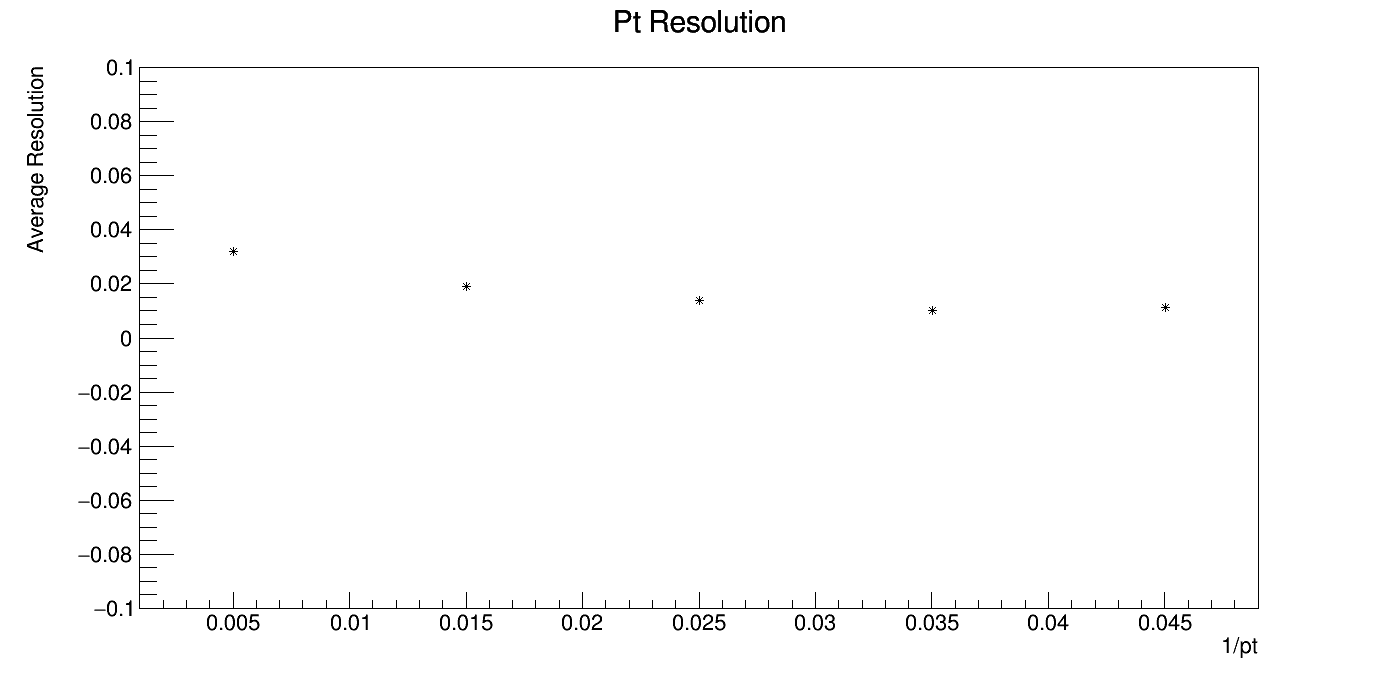
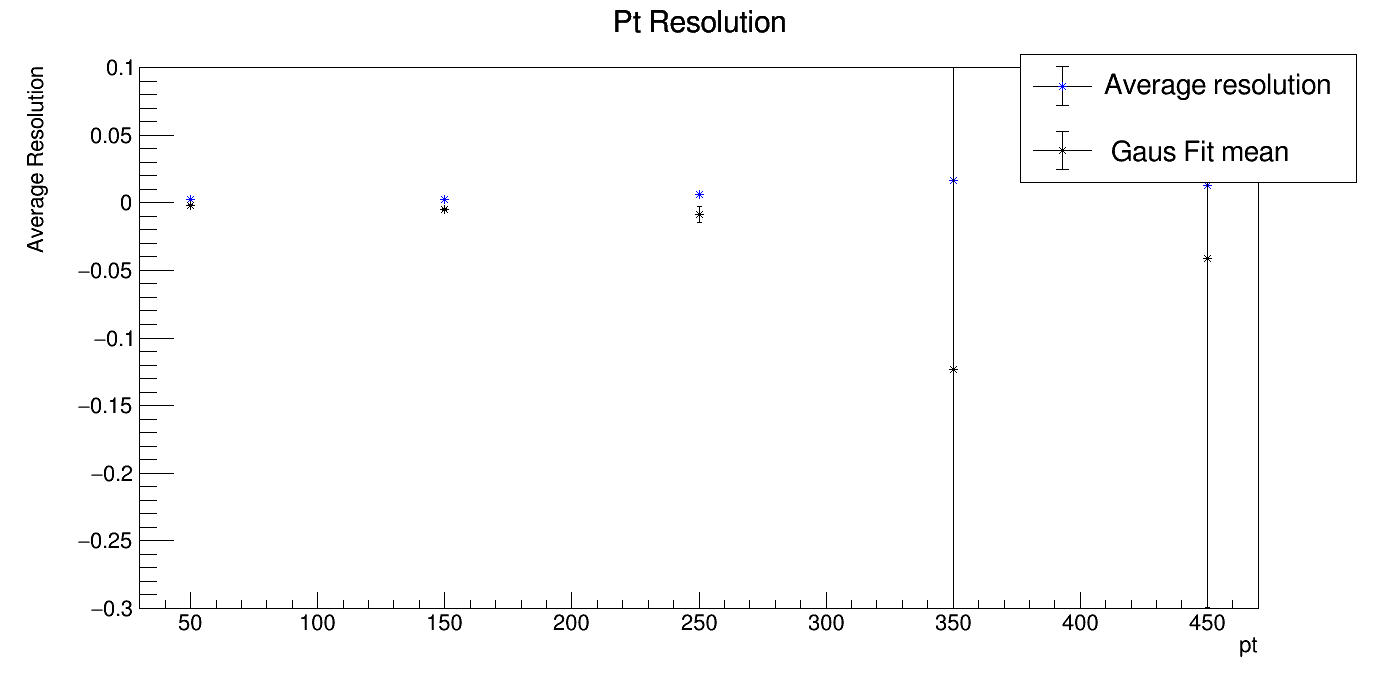
update

diff --git a/dgl_ptmuond.py b/dgl_ptmuond.py
@@ -22,9 +22,21 @@ can2  = ROOT.TCanvas("can2", "histogramss", 1400,700)
 can3  = ROOT.TCanvas("can3", "Average Resolution", 1400,700)
 can4 = ROOT.TCanvas("can4", "Resolution", 1400,700)
 can5 = ROOT.TCanvas("can5", "Resolution hist", 1400,700)
+can6= ROOT.TCanvas("can6", "Pt hist", 1400,700)
+can7= ROOT.TCanvas("can7", "Pt hist", 1400,700)
+can8= ROOT.TCanvas("can8", "Pt hist", 1400,700)
+can9= ROOT.TCanvas("can9", "Pt hist", 1400,700)
+can10= ROOT.TCanvas("can10", "Pt hist", 1400,700)
+can11= ROOT.TCanvas("can11", "Sigma", 1400,700)
 h1 = ROOT.TH1D("h1", "Down dGl", 500, 0.0, 500.0)
 h2 = ROOT.TH1D("h2", "Up dGl", 500, 0.0, 500.0)
-h3= ROOT.TH1D("h2", "Resolution hist", 200, -1, 1)
+h3= ROOT.TH1D("h3", "Resolution hist", 200, -1, 1)
+h4= ROOT.TH1D("h4", "Res Pt_0-100 hist ", 100, -0.1, 0.1)
+h5= ROOT.TH1D("h5", "Res Pt_100-200 hist ", 100, -0.1, 0.1)
+h6= ROOT.TH1D("h6", "Res Pt_200-300 hist ", 100, -0.1, 0.1)
+h7= ROOT.TH1D("h7", "Res Pt_300-400 hist ", 100, -0.1, 0.1)
+h8= ROOT.TH1D("h8", "Res Pt_400-500 hist ", 100, -0.1, 0.1)
+
 entry_down=0
 entry_up=0
 downdgl_pt=0
@@ -37,9 +49,14 @@ res=0
 xaxis=[]
 ressolution=[]
 den=np.array([0,0,0,0,0])
+empty=np.array([0.0,0.0,0.0,0.0,0.0])
 sum_resolution=np.array([0.0,0.0,0.0,0.0,0.0])
+sigma=np.array([0.0,0.0,0.0,0.0,0.0])
 average_resolution=np.array([0.0,0.0,0.0,0.0,0.0])
-pt_bin=np.array([0.005,0.015,0.025,0.035,0.045])
+average_resolution1=np.array([0.0,0.0,0.0,0.0,0.0])
+res_error=np.array([0.0,0.0,0.0,0.0,0.0])
+sigma_error=np.array([0.0,0.0,0.0,0.0,0.0])
+pt_bin=np.array([50.0,150.0,250.0,350.0,450.0])
 
 for i in range(0,Entries):
     tree.GetEntry(i) 
@@ -78,30 +95,37 @@ for i in range(0,Entries):
             xaxis.append(inv_Uppt)
             ressolution.append(res)
             
-            if 0.0<inv_Uppt<pt_bin[0]+0.005:
+            if 0.0<updgl_pt<pt_bin[0]+50.0:
                 den[0]+=1
-                sum_resolution[0]+=abs(res)
+                sum_resolution[0]+=res
+                h4.Fill(res)
             
-            if (pt_bin[1]-0.005)<inv_Uppt<(pt_bin[1]+0.005):
+            if (pt_bin[1]-50.0)<updgl_pt<(pt_bin[1]+50.0):
                 den[1]+=1
-                sum_resolution[1]+=abs(res)
-            
-            if (pt_bin[2]-0.005)<inv_Uppt<(pt_bin[2]+0.005):
+                sum_resolution[1]+=res
+                h5.Fill(res)
+                
+            if (pt_bin[2]-50.0)<updgl_pt<(pt_bin[2]+50.0):
                 den[2]+=1
-                sum_resolution[2]+=abs(res)
-            if (pt_bin[3]-0.005)<inv_Uppt<(pt_bin[3]+0.005):
+                sum_resolution[2]+=res
+                h6.Fill(res)
+                
+            if (pt_bin[3]-50.0)<updgl_pt<(pt_bin[3]+50.0):
                 den[3]+=1
-                sum_resolution[3]+=abs(res)
+                sum_resolution[3]+=res
+                h7.Fill(res)
             
-            if (pt_bin[4]-0.005)<inv_Uppt<(pt_bin[4]+0.005):
+            if (pt_bin[4]-50.0)<updgl_pt<(pt_bin[4]+50.0):
                 den[4]+=1
-                sum_resolution[4]+=abs(res)
-            
-            
+                sum_resolution[4]+=res
+                h8.Fill(res)
+                
+                
 for s in range(5):
-    average_resolution[s]= abs(sum_resolution[s])/den[s]
+    average_resolution1[s]= abs(sum_resolution[s])/den[s]
     
-print(den, sum_resolution, average_resolution)
+            
+            
 can.cd()
 h1.Draw()
 can.SaveAs("plots/do_ndgl_pt.png")
@@ -109,22 +133,94 @@ can.SaveAs("plots/do_ndgl_pt.png")
 can2.cd()    
 h2.Draw()
 can2.SaveAs("plots/up_dgl_pt.png")
+
 can5.cd()    
 h3.Draw()
 can5.SaveAs("plots/Resolutions_hist.png")
 
+can6.cd()
+fit1= h4.Fit("gaus", "S")
+mean_res1=fit1.Parameter(1)
+sigma1=fit1.Parameter(2)
+res_error[0]=fit1.ParError(1)
+sigma_error[0]=fit1.ParError(2)
+print("1",mean_res1,sigma1)
+average_resolution[0]=mean_res1
+sigma[0]=sigma1
+h4.Draw()
+can6.SaveAs("plots/pt_0-100_hist.png")
+
+can7.cd()
+fit2= h5.Fit("gaus", "S")
+mean_res2=fit2.Parameter(1)
+sigma2=fit2.Parameter(2)
+res_error[1]=fit2.ParError(1)
+sigma_error[1]=fit2.ParError(2)
+print("2",mean_res2, sigma2)
+average_resolution[1]=mean_res2
+sigma[1]=sigma2
+h5.Draw()
+can7.SaveAs("plots/pt_100-200_hist.png")
+
+can8.cd()
+fit3= h6.Fit("gaus", "S")
+mean_res3=fit3.Parameter(1)
+sigma3=fit3.Parameter(2)
+res_error[2]=fit3.ParError(1)
+sigma_error[2]=fit3.ParError(2)
+print("3",mean_res3, sigma3)
+average_resolution[2]=mean_res3
+sigma[2]=sigma3
+h6.Draw()
+can8.SaveAs("plots/pt_200-300_hist.png")
+
+can9.cd()
+fit4= h7.Fit("gaus", "S")
+mean_res4=fit4.Parameter(1)
+sigma4=fit4.Parameter(2)
+res_error[3]=fit4.ParError(1)
+sigma_error[3]=fit4.ParError(2)
+print("4",mean_res4, sigma4)
+average_resolution[3]=mean_res4
+sigma[3]=sigma4
+h7.Draw()
+can9.SaveAs("plots/pt_300-400_hist.png")
+
+can10.cd()
+fit5= h8.Fit("gaus", "S")
+mean_res5=fit5.Parameter(1)
+sigma5=fit5.Parameter(2)
+res_error[4]=fit5.ParError(1)
+sigma_error[4]=fit5.ParError(2)
+print("5",mean_res5, sigma5,res_error,sigma_error)
+average_resolution[4]=mean_res5
+sigma[4]=sigma5
+h8.Draw()
+can10.SaveAs("plots/pt_400-500_hist.png")
+print(average_resolution)
+
+
+MU=ROOT.TMultiGraph()
+gu = ROOT.TGraph( n, pt_bin, average_resolution1, )
+gu.SetMarkerColor( 4 )
+MU.Add(gu)
+gr = ROOT.TGraphErrors( n, pt_bin, average_resolution,empty,res_error )
+MU.Add(gr)
+MU.SetTitle( 'Pt Resolution' )
+MU.GetXaxis().SetTitle( 'pt' )
+MU.GetYaxis().SetTitle( 'Average Resolution' )
+MU.GetYaxis().SetRangeUser( -0.3,0.1 )
+legend = ROOT.TLegend(.73,.92,.97,.73);
+legend.AddEntry(gu,"Average resolution","lep");
+legend.AddEntry(gr," Gaus Fit mean","lep");
+can3.cd()
+MU.Draw('PA*')
+legend.Draw()
+can3.SaveAs("plots/Average_Resolution.png")
+
 
 x=np.array(xaxis)
 y=np.array(ressolution)
-gr = ROOT.TGraph( n, pt_bin, average_resolution )
-gr.SetTitle( 'Pt Resolution' )
-gr.GetXaxis().SetTitle( '1/pt' )
-gr.GetYaxis().SetTitle( 'Average Resolution' )
-gr.GetYaxis().SetRangeUser( -0.1,0.1 )
-can3.cd()
-gr.Draw('PA*')
-can3.SaveAs("plots/Average_Resolution.png")
-
 gp = ROOT.TGraph( k, x, y )
 gp.SetTitle( 'Pt Resolution' )
 gp.GetXaxis().SetTitle( '1/pt' )
@@ -133,4 +229,13 @@ gp.GetYaxis().SetRangeUser( -0.1,0.1 )
 can4.cd()
 gp.Draw('PA*')
 can4.SaveAs("plots/Resolution.png")
+
+gs = ROOT.TGraphErrors( n, pt_bin, sigma,empty,sigma_error )
+gs.SetTitle( 'Sigma' )
+gs.GetXaxis().SetTitle( 'pt' )
+gs.GetYaxis().SetTitle( 'Standar deviation' )
+gs.GetYaxis().SetRangeUser( 0.0,0.3 )
+can11.cd()
+gs.Draw('PA*')
+can11.SaveAs("plots/Sigma.png")
     
